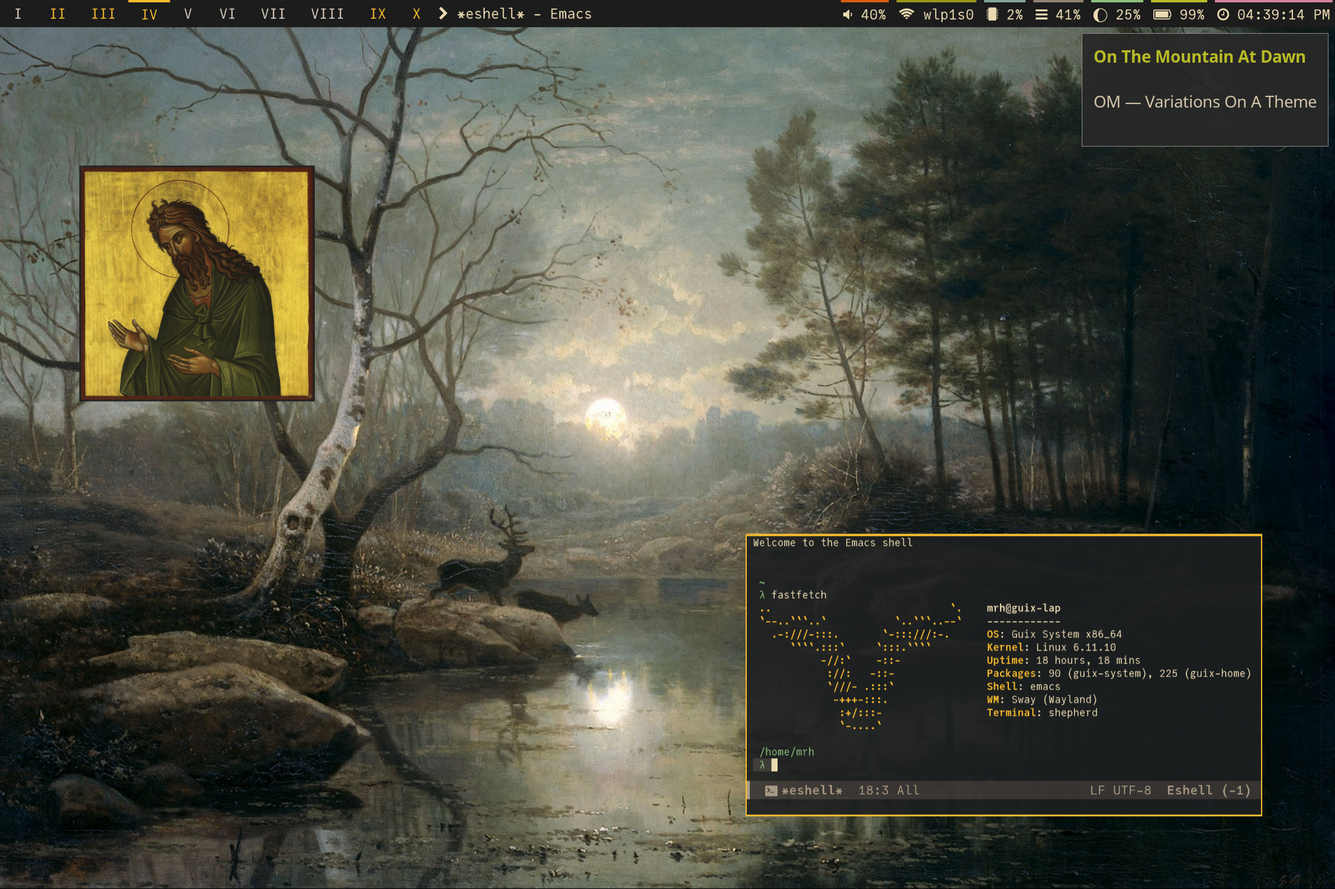
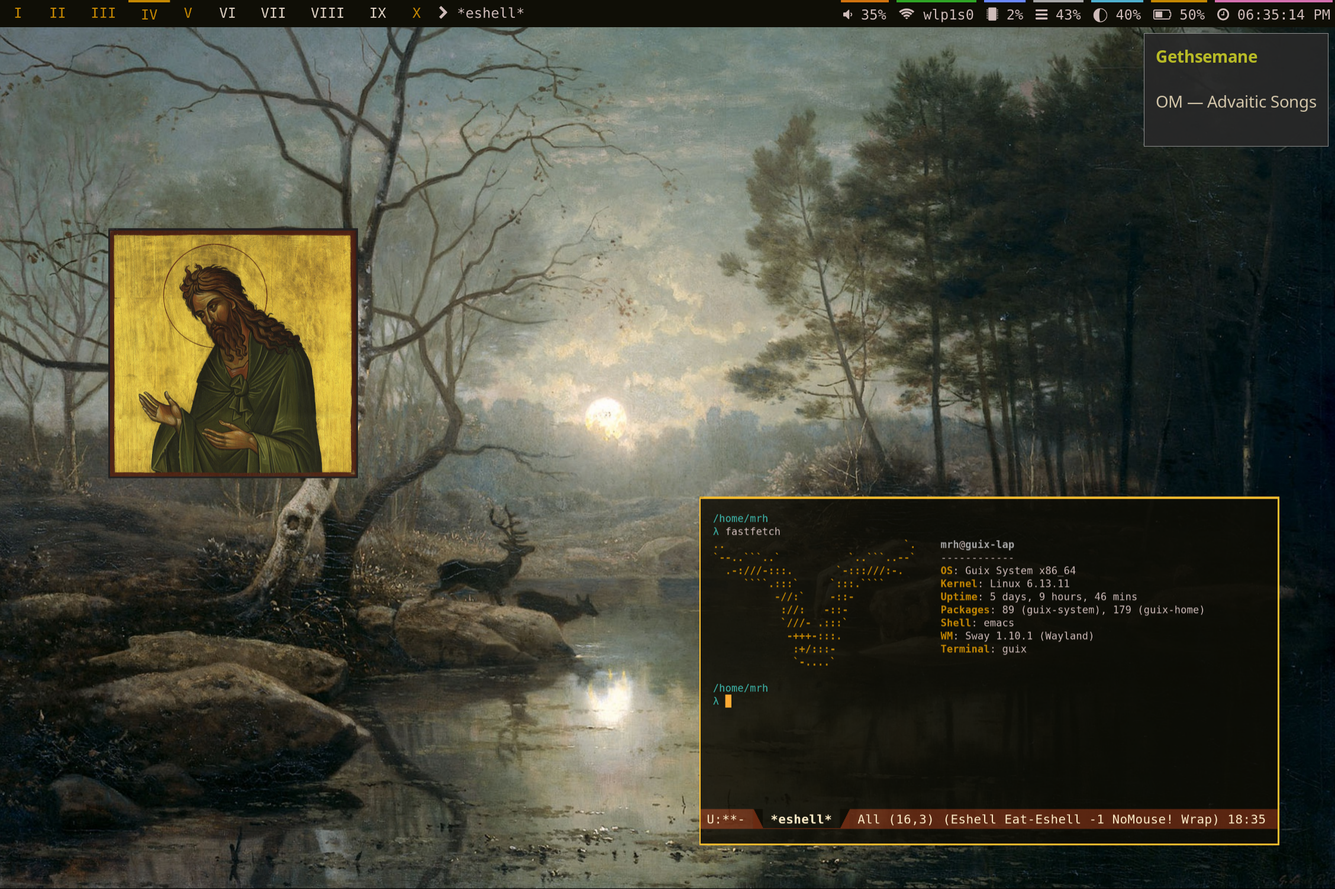
Update repositories: 2025-04-24 to 2025-04-25
-repos/mrh/dotfiles 28679ff785d69638cad1288c05f1330ca89c53df
+repos/mrh/dotfiles e349ea010d69ba3f7c5ebb4ef9a8a3eeda251e51

diff --git a/repos/mrh/dotfiles/dot-config/waybar/style.css b/repos/mrh/dotfiles/dot-config/waybar/style.css
@@ -6,8 +6,9 @@
 }
 
 window#waybar {
-    background: rgba(28, 28, 28, 1.0);
-    color: #ebdbb2;
+    /* background: rgba(28, 28, 28, 1.0); */
+    background: #0f0e06;
+    color: #cfbcba;
 }
 
 tooltip {
@@ -20,7 +21,7 @@ tooltip label {
 }
 
 #workspaces button {
-    color: #fabd2f;
+    color: #c48702;
 }
 
 #workspaces button.persistent {
@@ -28,14 +29,14 @@ tooltip label {
 }
 
 #workspaces button.focused {
-	border-top: 3px solid #fabd2f;
+	border-top: 3px solid #c48702;
 }
 
 #workspaces button:hover {
 	box-shadow: inherit;
 	text-shadow: inherit;
-	background: #928374;
-	color: #282828;
+	background: #a6a6a6;
+	color: #0f0e06;
 }
 
 #window {
@@ -50,57 +51,57 @@ tooltip label {
 }
 
 #wireplumber {
-    border-top: 3px solid #d65d0e;
-    color: #ebdbb2;
+    border-top: 3px solid #d0730f;
+    color:  #cfbcba;
 }
 
 #wireplumber.muted {
-    color: #928374;
+    color: #887c8a;
 }
 
 #network.wifi {
-	border-top: 3px solid #98971a;
-    color: #ebdbb2;
+	border-top: 3px solid #2fa526;
+    color: #cfbcba;
 }
 
 #network.disconnected {
-	border-top: 3px solid #cc241d;
-    color: #ebdbb2;
+	border-top: 3px solid #b02930;
+    color: #cfbcba;
 }
 
 #cpu {
-    border-top: 3px solid #83a598;
-    color: #ebdbb2;
+    border-top: 3px solid #6a88ff;
+    color: #cfbcba;
 }
 
 #memory {
-    border-top: 3px solid #928374;
-    color: #ebdbb2;
+    border-top: 3px solid #a6a6a6;
+    color: #cfbcba;
 }
 
 #backlight {
-    border-top: 3px solid #8ec07c;
-    color: #ebdbb2;
+    border-top: 3px solid #4fb0cf;
+    color: #cfbcba;
 }
 
 #battery.full {
-    border-top: 3px solid #b8bb26;
-    color: #ebdbb2;
+    border-top: 3px solid #64aa0f;
+    color: #cfbcba;
 }
 
 #battery.good {
-    border-top: 3px solid #d79921;
-    color: #ebdbb2;
+    border-top: 3px solid #c48702;
+    color: #cfbcba;
 }
 
 #battery.critical {
-    border-top: 3px solid #cc241d;
-    color: #ebdbb2;
+    border-top: 3px solid #b02930;
+    color: #cfbcba;
 }
 
 #clock {
-    border-top: 3px solid #d3869b;
-    color: #ebdbb2;
+    border-top: 3px solid #d570af;
+    color: #cfbcba;
 }
 
 @keyframes blink {
